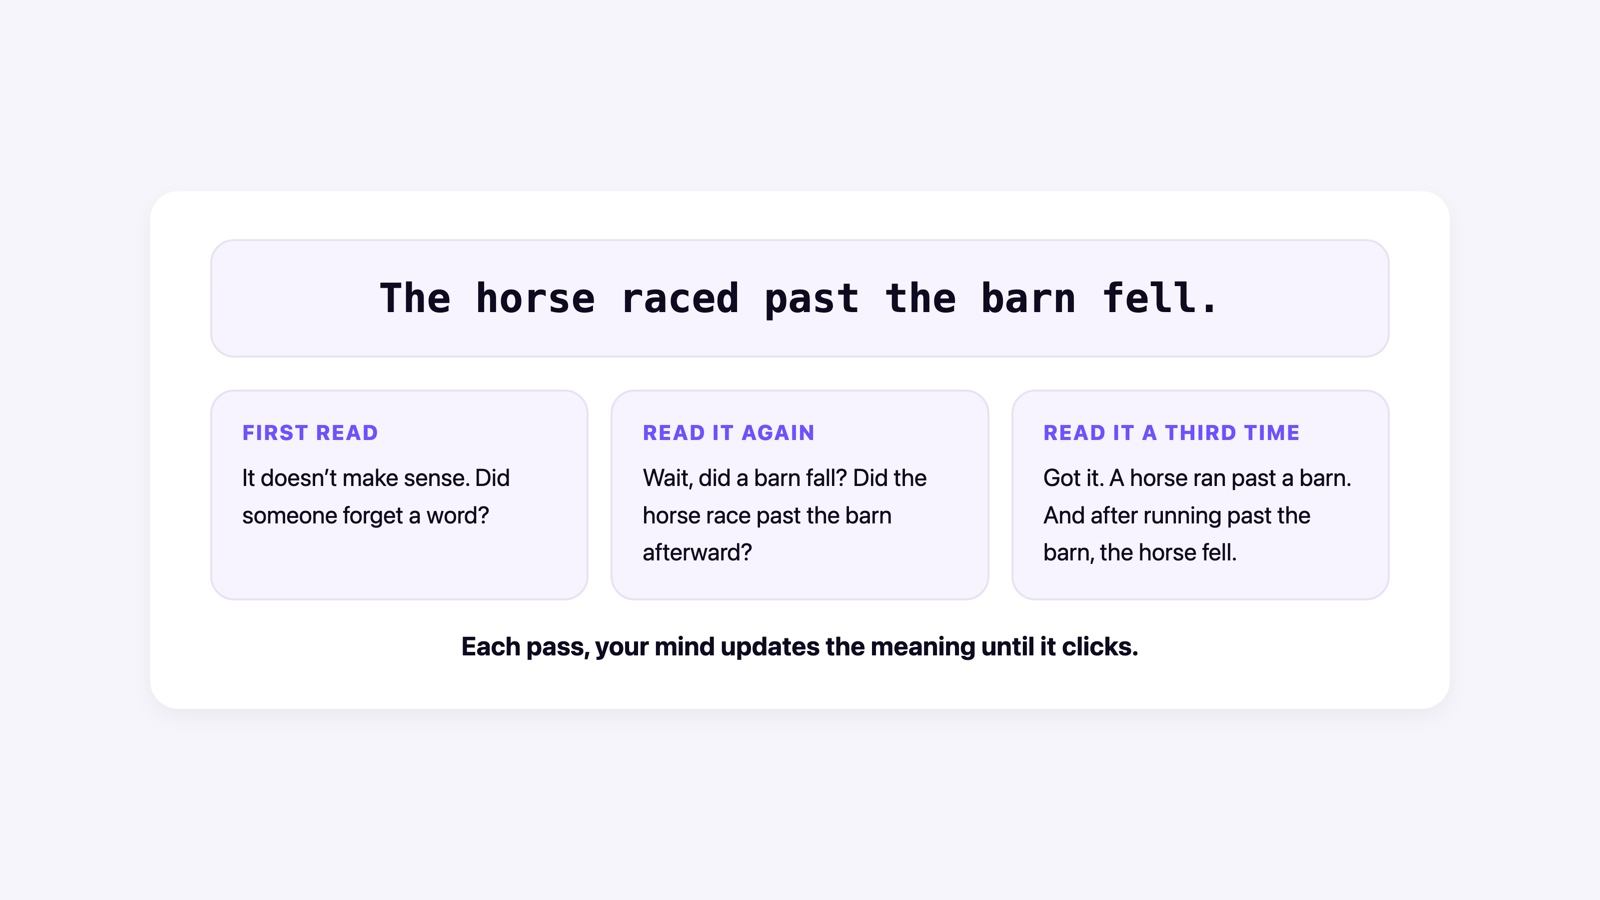
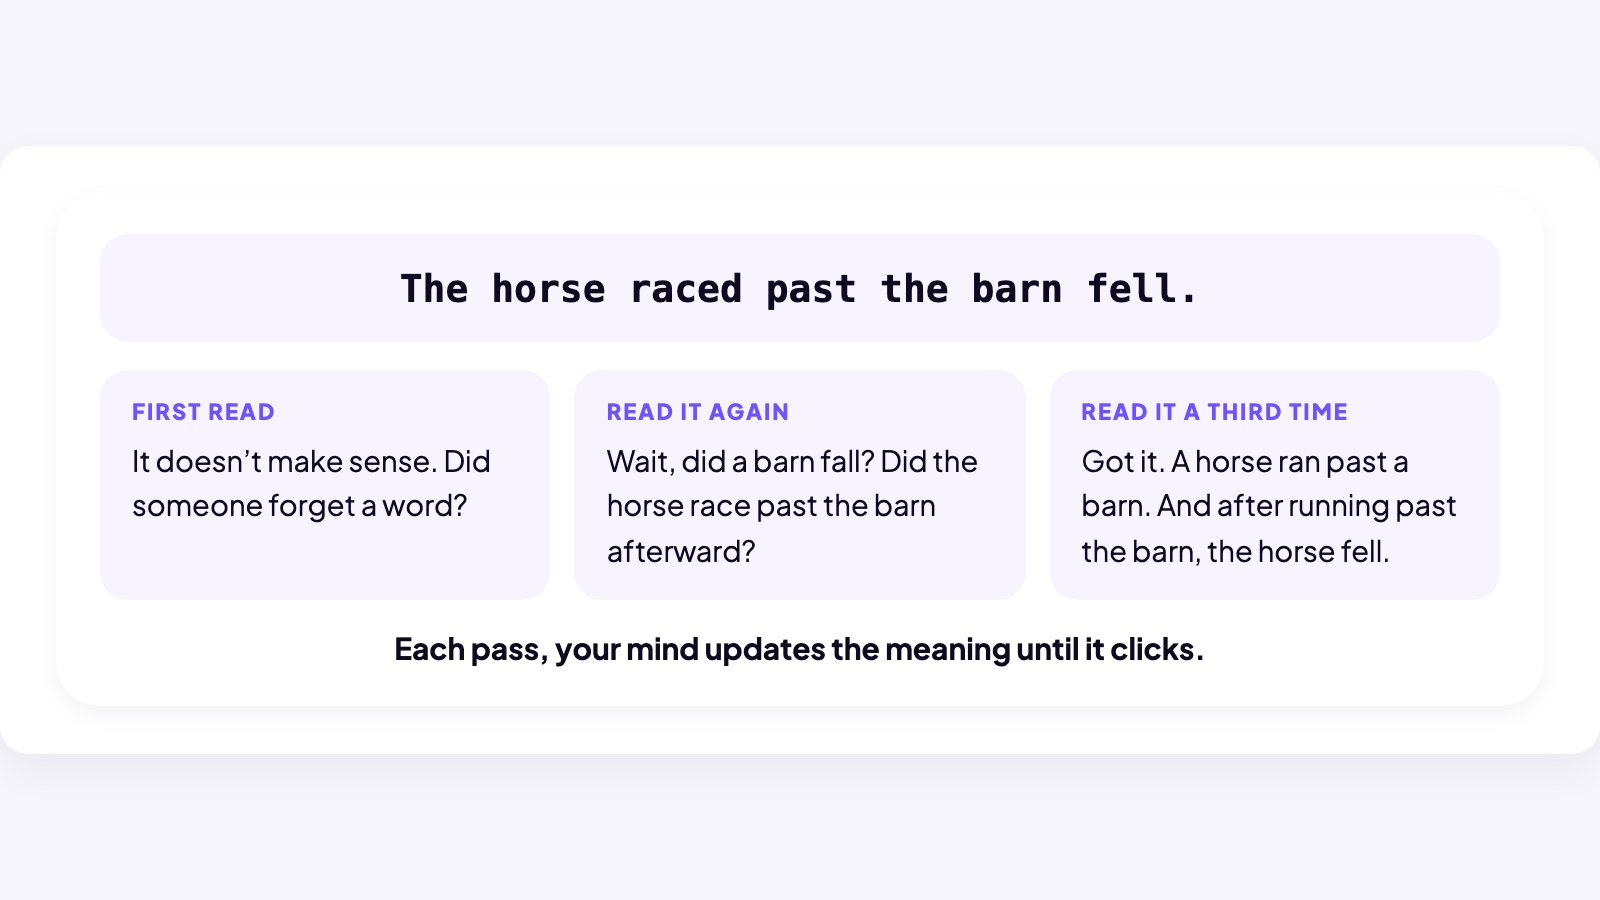
Layers: promote the horse-reads and layer-stack boards into the lesson (owner call)
The video boards beat their in-lesson counterparts, so the lesson now
renders them natively: HorseReadsBox (mono sentence strip + three
parallel read cards + takeaway; board's tighter third-read wording
replaces the list version) and LayersStackBox (4-row attention/
transformation table whose output vectors chain into the next layer's
input — more teaching content than the retired illustration).
illustrations/layers.jpg moved to archive/layers/. Boards recaptured
FROM the live lesson (single source of truth), layers .md/.pdf
regenerated. validate() green, JS syntax OK, design-check PASS (also
fixed the em-dash I introduced in this morning's which-app pill title).

diff --git a/index.html b/index.html
@@ -244,7 +244,7 @@ const LESSON_VIDEOS = {
   openerworkwith: { src: "videos/opener-work.mp4", duration: "3 min", title: "Same tool, different results. Here's how to get the good ones.", cta: "After watching, continue below to see where this section takes you." },
   aivscode: { src: "videos/ai-is-different.mp4", duration: "5 min", title: "Why AI works differently from every other app you use." },
   whatitdoesbest: { src: "videos/where-ai-works-best.mp4", duration: "4 min", title: "The four kinds of work AI is actually built for." },
-  modelselection: { src: "videos/which-app.mp4", duration: "4 min", title: "ChatGPT, Claude, Gemini — and how to pick your home base." },
+  modelselection: { src: "videos/which-app.mp4", duration: "4 min", title: "ChatGPT, Claude, Gemini: how to pick your home base." },
   questionsvaluable: { src: "videos/questions-matter.mp4", duration: "3 min", title: "Why the question is the half that still belongs to you." },
   prompting: { src: "videos/art-of-prompting.mp4", duration: "3 min", title: "How to package a question so AI can actually deliver." },
   prompt: { src: "videos/context-window.mp4", duration: "3 min", title: "What the model can see when it answers you." },
@@ -4981,23 +4981,66 @@ function MatchTermsTryIt(props) {
         }));
       })));
 }
+function HorseReadsBox() {
+  var E = React.createElement;
+  var READS = [
+    { h: "First read", body: "It doesn’t make sense. Did someone forget a word?" },
+    { h: "Read it again", body: "Wait, did a barn fall? Did the horse race past the barn afterward?" },
+    { h: "Read it a third time", body: "Got it. A horse ran past a barn. And after running past the barn, the horse fell." }
+  ];
+  return E("div", { style: { background: "var(--card)", borderRadius: 22, padding: "20px 22px", marginBottom: 24, boxShadow: "var(--shadowSoft)" } },
+    E("div", { style: { background: "var(--primaryFaint)", borderRadius: 14, padding: "16px 18px", marginBottom: 14, textAlign: "center", fontFamily: "var(--mono)", fontSize: 19, fontWeight: 600, color: "var(--ink)" } },
+      "The horse raced past the barn fell."),
+    E("div", { style: { display: "grid", gridTemplateColumns: "repeat(auto-fit, minmax(190px, 1fr))", gap: 12, marginBottom: 14 } },
+      READS.map(function(r, i) {
+        return E("div", { key: i, style: { background: "var(--primaryFaint)", borderRadius: 14, padding: "14px 16px" } },
+          E("div", { style: { fontSize: BOX_LABEL, fontWeight: 800, color: "var(--primary)", textTransform: "uppercase", letterSpacing: 1, marginBottom: 7 } }, r.h),
+          E("div", { style: { fontSize: 14.5, color: "var(--ink)", lineHeight: 1.55 } }, r.body));
+      })),
+    E("div", { style: { textAlign: "center", fontSize: BOX_TEXT, fontWeight: 700, color: "var(--ink)" } },
+      "Each pass, your mind updates the meaning until it clicks."));
+}
+function LayersStackBox() {
+  var E = React.createElement;
+  var ROWS = [
+    { label: "Layer 1", inLabel: "Starting vector", vin: "[ 0.42, −1.15, 0.33, 2.08, −0.73, … ]", vout: "[ 0.51, −0.87, 0.21, 1.91, −0.26, … ]", dashed: false },
+    { label: "Layer 2", inLabel: "From layer 1", vin: "[ 0.51, −0.87, 0.21, 1.91, −0.26, … ]", vout: "[ 0.27, −1.21, 0.67, 2.24, 0.14, … ]", dashed: false },
+    { label: "Layer 3", inLabel: "From layer 2", vin: "[ 0.27, −1.21, 0.67, 2.24, 0.14, … ]", vout: "[ 0.31, −0.92, 0.48, 1.74, −0.31, … ]", dashed: false },
+    { label: "Dozens more layers", inLabel: "From layer 3", vin: "[ 0.31, −0.92, 0.48, 1.74, −0.31, … ]", vout: "[ 0.19, −1.12, 0.72, 2.13, −0.03, … ]", dashed: true }
+  ];
+  function vecBox(lab, val) {
+    return E("div", { style: { flex: "1 1 190px", background: "#fff", borderRadius: 10, padding: "8px 12px", minWidth: 0 } },
+      E("div", { style: { fontSize: 10, fontWeight: 700, color: "var(--inkMuted)", textTransform: "uppercase", letterSpacing: "0.06em", marginBottom: 3 } }, lab),
+      E("div", { style: { fontFamily: "var(--mono)", fontSize: 12.5, fontWeight: 600, color: "var(--primary)", whiteSpace: "nowrap", overflow: "hidden", textOverflow: "ellipsis" } }, val));
+  }
+  function moveChip(bg, name, sub) {
+    return E("div", { style: { flexShrink: 0, background: bg, borderRadius: 10, padding: "7px 12px", textAlign: "center" } },
+      E("div", { style: { fontSize: 12, fontWeight: 800, color: "#fff", letterSpacing: "0.04em", textTransform: "uppercase" } }, name),
+      E("div", { style: { fontSize: 10.5, fontWeight: 600, color: "rgba(255,255,255,0.85)" } }, sub));
+  }
+  return E("div", { style: { background: "var(--card)", borderRadius: 22, padding: "20px 22px", margin: "8px 0 24px", boxShadow: "var(--shadowSoft)" } },
+    E("div", { style: { textAlign: "center", marginBottom: 4, fontSize: BOX_CARD_TITLE + 3, fontWeight: 800, color: "var(--ink)" } }, "What happens inside each layer"),
+    E("div", { style: { textAlign: "center", fontSize: 14, color: "var(--inkSoft)", marginBottom: 16 } }, "Each layer refines every token’s vector, then hands it to the next layer."),
+    E("div", { style: { display: "flex", flexDirection: "column", gap: 10 } },
+      ROWS.map(function(r, i) {
+        return E("div", { key: i, style: { background: "var(--primaryFaint)", border: r.dashed ? "2px dashed var(--inkFaint)" : "2px solid transparent", borderRadius: 14, padding: "10px 14px", display: "flex", alignItems: "center", gap: 10, flexWrap: "wrap" } },
+          E("div", { style: { flex: "0 0 84px", fontSize: 13, fontWeight: 800, color: "var(--ink)", textTransform: "uppercase", lineHeight: 1.25 } }, r.label),
+          vecBox(r.inLabel, r.vin),
+          moveChip("var(--primary)", "Attention", "Which words matter?"),
+          moveChip("#e0850f", "Transformation", "Update the meaning"),
+          vecBox("Richer vector out", r.vout));
+      })),
+    E("div", { style: { textAlign: "center", fontSize: 14, color: "var(--inkSoft)", marginTop: 14 } },
+      E("strong", { style: { color: "var(--ink)" } }, "Same two moves at every layer."),
+      " Each pass, the numbers move closer to what the token means."));
+}
 function LayersSection(props) {
   const [claimsDone, setClaimsDone] = useState(false);
   return /*#__PURE__*/React.createElement("div", null,
     /*#__PURE__*/React.createElement(LessonHeader, { sectionId: "layers" }),
     /*#__PURE__*/React.createElement(BodyP, null,
       "Read the following sentence."),
-    /*#__PURE__*/React.createElement(BodyP, null,
-      /*#__PURE__*/React.createElement("strong", { style: { fontSize: 20 } }, "The horse raced past the barn fell.")),
-    /*#__PURE__*/React.createElement("ul", { style: { fontSize: 17, color: "var(--inkSoft)", lineHeight: 1.6, margin: "0 0 18px 0", paddingLeft: 22 } },
-      /*#__PURE__*/React.createElement("li", { style: { marginBottom: 6 } },
-        /*#__PURE__*/React.createElement("strong", null, "First read:"), " it doesn’t make sense. Did someone forget a word?"),
-      /*#__PURE__*/React.createElement("li", { style: { marginBottom: 6 } },
-        /*#__PURE__*/React.createElement("strong", null, "Read it again:"), " wait, did a barn fall? Did the horse race past the barn afterward?"),
-      /*#__PURE__*/React.createElement("li", null,
-        /*#__PURE__*/React.createElement("strong", null, "Read it a third time:"), " I think I got it now. There was a horse that ran past a barn. And, after running past the barn, the horse fell.")),
-    /*#__PURE__*/React.createElement(BodyP, null,
-      "Each pass, your mind updates the meaning until it clicks."),
+    /*#__PURE__*/React.createElement(HorseReadsBox, null),
     /*#__PURE__*/React.createElement(SectionKicker, null, "AI does the same thing"),
     /*#__PURE__*/React.createElement(BodyP, null,
       "It reads your message over and over, establishing the meaning a little more with each pass. And because language is full of nuance, it takes dozens of passes to pin the meaning down."),
@@ -5019,11 +5062,7 @@ function LayersSection(props) {
     /*#__PURE__*/React.createElement(ItSentenceWalkthrough, { revealed: false }),
     /*#__PURE__*/React.createElement(BodyP, null,
       "What does this look like inside the model? Like this."),
-    /*#__PURE__*/React.createElement("img", {
-      src: "illustrations/layers.jpg",
-      alt: "Inside one layer: vectors go in, attention finds which words matter, transformation updates the meaning, and richer vectors come out, then feed into the next layer",
-      style: { display: "block", width: "100%", maxWidth: 880, margin: "8px auto 24px", borderRadius: 16 }
-    }),
+    /*#__PURE__*/React.createElement(LayersStackBox, null),
     /*#__PURE__*/React.createElement(SectionKicker, null, "Why are there dozens of layers?"),
     /*#__PURE__*/React.createElement(BodyP, null,
       "Because some meaning is many steps deep. Simple meaning resolves in a few passes. But catching sarcasm, following a twist in a story, or reasoning through a complicated problem takes many more. A few layers reach only shallow meaning; stacking dozens leaves room for the deep kind."),

diff --git a/lessons/layers.md b/lessons/layers.md
@@ -4,11 +4,20 @@
 
 Read the following sentence.
 
-**The horse raced past the barn fell.**
+The horse raced past the barn fell.
 
-- **First read:** it doesn’t make sense. Did someone forget a word?
-- **Read it again:** wait, did a barn fall? Did the horse race past the barn afterward?
-- **Read it a third time:** I think I got it now. There was a horse that ran past a barn. And, after running past the barn, the horse fell.
+## First read
+
+It doesn’t make sense. Did someone forget a word?
+
+## Read it again
+
+Wait, did a barn fall? Did the horse race past the barn afterward?
+
+## Read it a third time
+
+Got it. A horse ran past a barn. And after running past the barn, the horse fell.
+
 Each pass, your mind updates the meaning until it clicks.
 
 ## AI does the same thing
@@ -64,6 +73,84 @@ At each layer its numbers shift, as the model reads the surrounding words to wor
 →
 
 What does this look like inside the model? Like this.
+
+What happens inside each layer
+
+Each layer refines every token’s vector, then hands it to the next layer.
+
+## Layer 1
+
+## Starting vector
+
+[ 0.42, −1.15, 0.33, 2.08, −0.73, … ]
+
+## Attention
+
+Which words matter?
+
+## Transformation
+
+Update the meaning
+
+## Richer vector out
+
+[ 0.51, −0.87, 0.21, 1.91, −0.26, … ]
+
+## Layer 2
+
+## From layer 1
+
+[ 0.51, −0.87, 0.21, 1.91, −0.26, … ]
+
+## Attention
+
+Which words matter?
+
+## Transformation
+
+Update the meaning
+
+## Richer vector out
+
+[ 0.27, −1.21, 0.67, 2.24, 0.14, … ]
+
+## Layer 3
+
+## From layer 2
+
+[ 0.27, −1.21, 0.67, 2.24, 0.14, … ]
+
+## Attention
+
+Which words matter?
+
+## Transformation
+
+Update the meaning
+
+## Richer vector out
+
+[ 0.31, −0.92, 0.48, 1.74, −0.31, … ]
+
+## Dozens more layers
+
+## From layer 3
+
+[ 0.31, −0.92, 0.48, 1.74, −0.31, … ]
+
+## Attention
+
+Which words matter?
+
+## Transformation
+
+Update the meaning
+
+## Richer vector out
+
+[ 0.19, −1.12, 0.72, 2.13, −0.03, … ]
+
+**Same two moves at every layer.** Each pass, the numbers move closer to what the token means.
 
 ## Why are there dozens of layers?
 